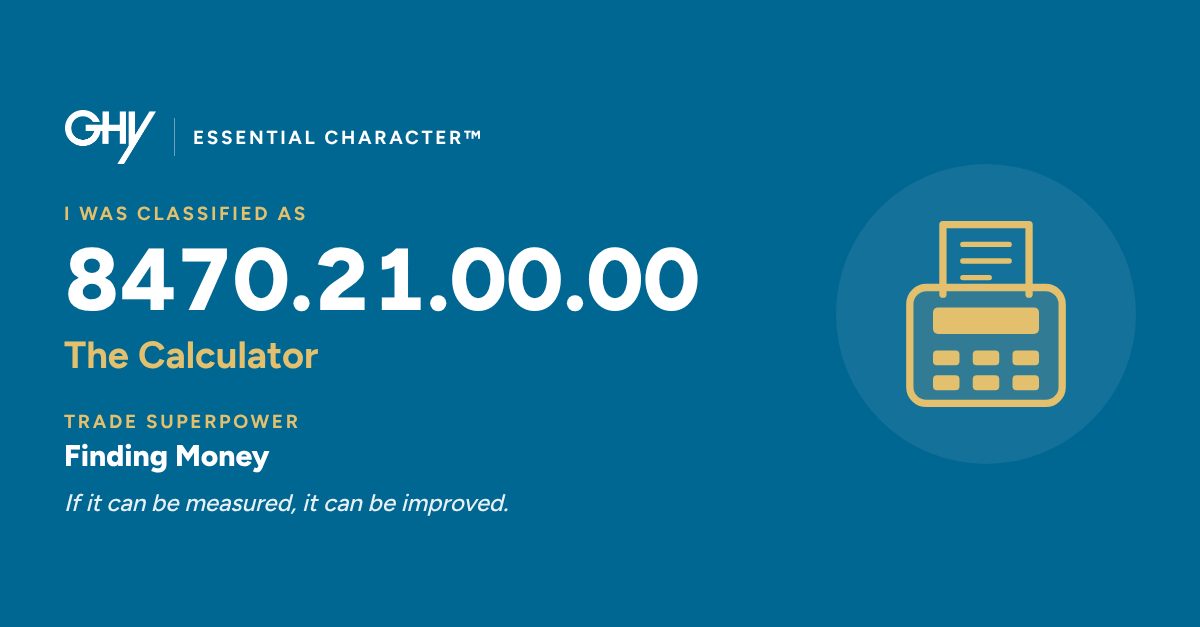
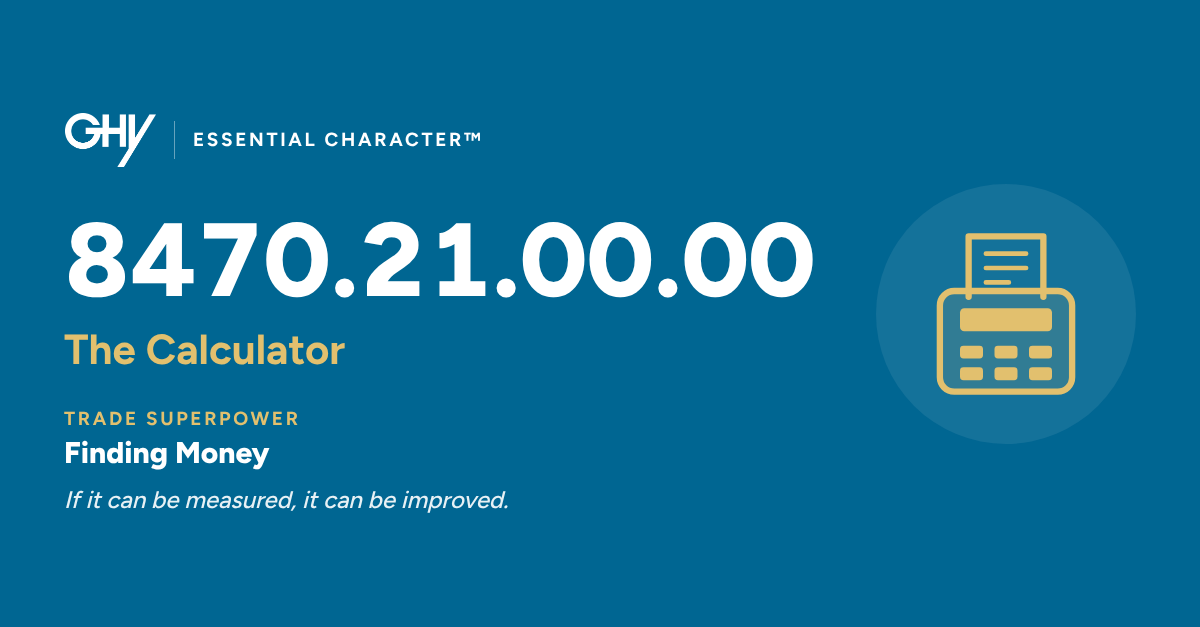
Add files via upload

diff --git a/index.html b/index.html
@@ -255,6 +255,7 @@ table.sched{min-width:780px;font-size:.86rem}
 .pipedriveWebForms iframe{max-width:100%}
 .pd-frame{display:block;width:100%;height:640px;border:0;background:#fff;border-radius:8px}
 .pd-fallback{margin-top:8px}
+.share-note{margin-top:10px}
 .pd-fallback a{color:var(--brand)}
 .sticker h2{font-size:1.4rem;font-weight:800;color:var(--brand-deep)}
 :root[data-theme="dark"] .sticker h2{color:var(--ink)}
@@ -784,6 +785,7 @@ function wireCommon(){
   const m = document.getElementById("mine"); if(m) m.onclick = () => showResult(result);
 }
 
+const QUIZ_URL = "https://www.ghy.com/trade-guides/ghy-trade-personality-quiz/";
 const PD_FORM = "https://webforms.pipedrive.com/f/1wXLtJk9dGXJ0feZOLKO8lVXZzyz4jVTxiNArfl3d8W6RxHXVRWChmmlwZzlMs4M3";
 
 function stickerHTML(p){
@@ -795,12 +797,12 @@ function stickerHTML(p){
     <p class="fine pd-fallback">Form not loading? <a href="${PD_FORM}" target="_blank" rel="noopener">Open it in a new tab</a>.</p>
     <h3 style="margin-top:22px;font-size:1rem">While you're here</h3>
     <div class="thanks-grid">
-      <div class="box"><h3>Share your trade personality</h3><p>Let your network know how you were classified.</p><a class="btn btn-brand" id="sh" target="_blank" rel="noopener" href="https://www.linkedin.com/sharing/share-offsite/?url=${encodeURIComponent(new URL(`share/${p.key}.html`,location.href).href)}">Share on LinkedIn</a></div>
+      <div class="box"><h3>Share your trade personality</h3><p>Let your network know how you were classified.</p><button class="btn btn-brand" type="button" id="sh">Share on LinkedIn</button><p class="fine share-note" id="sharenote" role="status" hidden></p></div>
       <div class="box"><h3>Explore all six</h3><p>See how the rest of your team might be classified.</p><button class="btn btn-ghost" type="button" id="ex">View personalities</button></div>
     </div>
     <div id="sharecard" hidden>
       <div class="social" role="img" aria-label="Share graphic for ${esc(p.name)}">
-        <div><small>Essential Character&trade;</small><small class="g" style="margin-top:10px">I was classified as</small><b style="font-variant-numeric:tabular-nums">${p.hts}</b><small class="g" style="font-size:1rem;letter-spacing:.04em;text-transform:none;font-weight:700">${p.name}</small>
+        <div><small>Essential Character&trade;</small><b style="font-size:clamp(1.7rem,4vw,2.3rem);font-variant-numeric:tabular-nums;color:#fff;margin-top:10px">${p.hts}</b><small class="g" style="font-size:1rem;letter-spacing:.04em;text-transform:none;font-weight:700">${p.name}</small>
         <small class="g" style="margin-top:12px">Trade superpower</small><b style="font-size:1.05rem">${p.power.toUpperCase()}</b><i>${esc(p.belief)}</i></div>
         <div>${p.glyph}</div>
       </div>
@@ -827,7 +829,28 @@ function wireSticker(p){
   pd.appendChild(loader);
   setTimeout(frameForm, 2500);
   const sh = document.getElementById("sh");
-  if(sh) sh.onclick = () => { document.getElementById("sharecard").hidden = false; };
+  if(sh){
+    const img = `share/${p.key}.png`, name = `essential-character-${p.key}.png`;
+    const caption = `I was classified as ${p.name} (HTS ${p.hts}) in GHY's Trade Personality Classification Quiz.\n\nWhat's your trade personality? Take the quiz: ${QUIZ_URL}`;
+    let file = null;
+    fetch(img).then(r=>r.ok?r.blob():null).then(b=>{ if(b) file = new File([b],name,{type:"image/png"}); }).catch(()=>{});
+    sh.onclick = async () => {
+      document.getElementById("sharecard").hidden = false;
+      const note = document.getElementById("sharenote");
+      // Phones: send the image and caption to the LinkedIn app through the device share sheet.
+      if(navigator.clipboard) navigator.clipboard.writeText(caption).catch(()=>{});
+      if(matchMedia("(pointer:coarse)").matches && file && navigator.canShare && navigator.canShare({files:[file]})){
+        try { await navigator.share({files:[file],text:caption}); note.textContent = "If your caption is empty, paste it in. We copied it for you."; note.hidden = false; return; }
+        catch(err){ if(err.name==="AbortError") return; }
+      }
+      // Desktop: LinkedIn cannot accept an image through a link, so save it and open the post window with the caption.
+      window.open("https://www.linkedin.com/feed/?shareActive=true&text="+encodeURIComponent(caption),"_blank","noopener");
+      const a = document.createElement("a");
+      a.href = img; a.download = name; document.body.appendChild(a); a.click(); a.remove();
+      note.textContent = "Your graphic has downloaded. In LinkedIn, add it to your post with the photo icon. Your caption and quiz link are copied too, so paste them in if they aren't already there.";
+      note.hidden = false;
+    };
+  }
   const ex = document.getElementById("ex");
   if(ex) ex.onclick = indexPage;
 }
